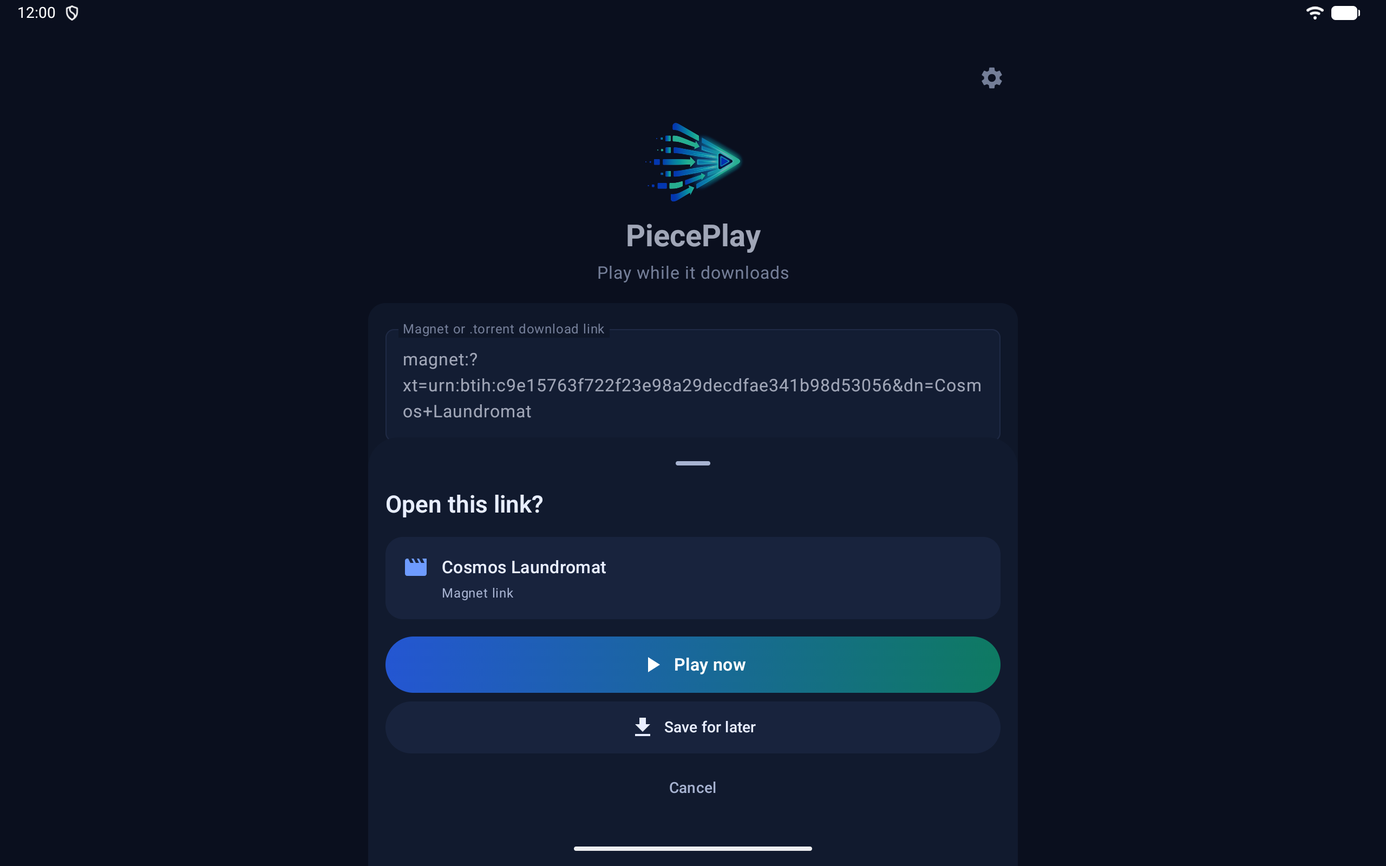
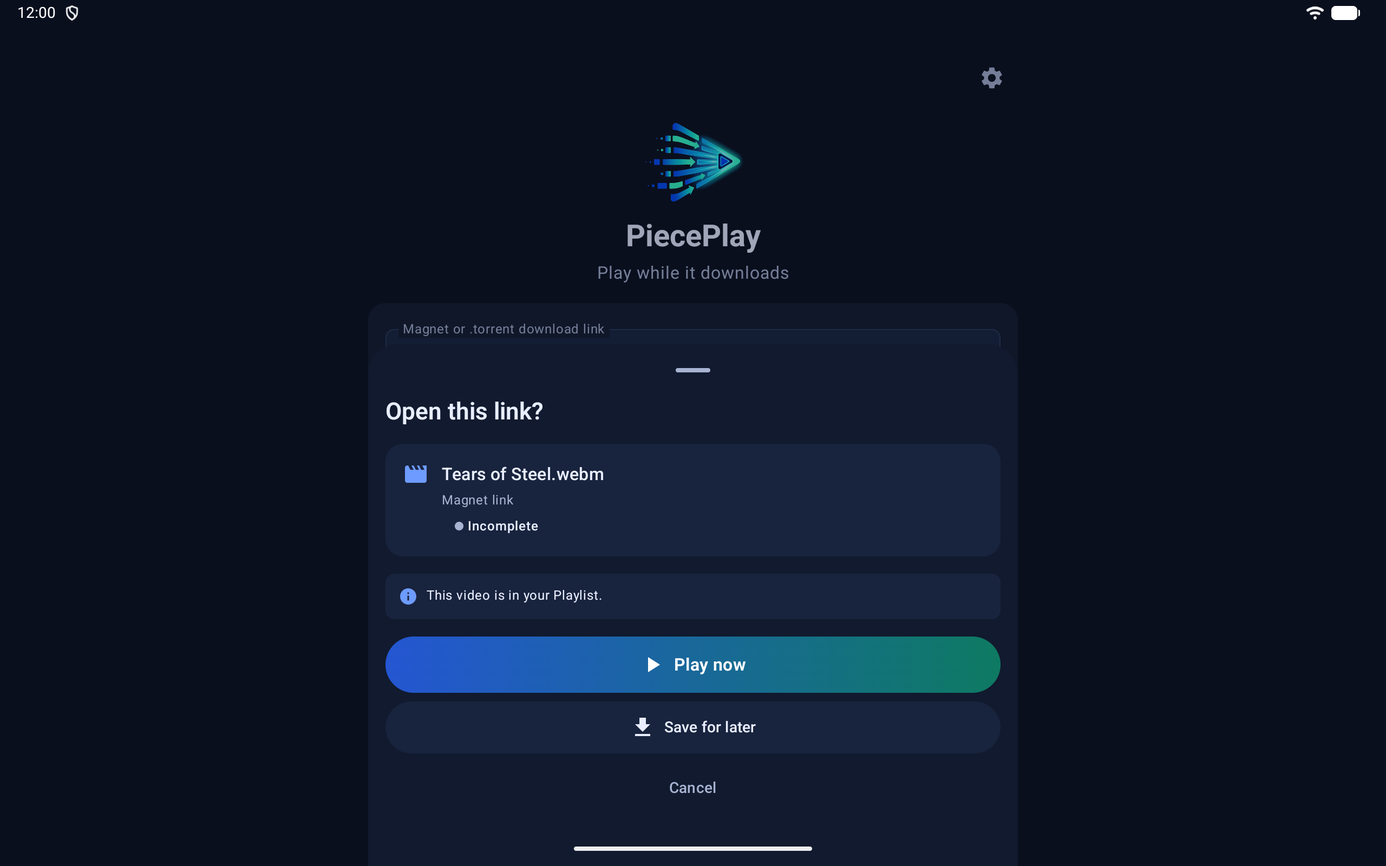
marketing: 한국어 스크린샷을 영어와 같은 7장으로 재촬영, 태블릿 링크 열기 마그넷 정리 (Refs #144)
- ko-KR 휴대전화·7인치·10인치 각 7장을 v.2026.11.14.001 한국어 UI로 새로 찍고(raw-ko-KR) 합성. 예전 6장 삭제
- 한국어 캡션을 영어 새 캡션과 뜻을 맞춰 바꿈("확대 · 축소" 삭제)
- en-US 태블릿 05_open_link: 마그넷을 Tears of Steel로 바꿔 출처 문장과 맞춤
- screens.py에 ko-KR 7장 구성과 raw-ko-KR 추가, README·등록정보 메모·검토 보고서 갱신

Changed region(s): [[0.2812, 0.4062, 0.7188, 0.5], [0.2812, 0.5312, 0.4375, 0.625], [0.2812, 0.625, 0.4375, 0.7188]]

diff --git a/launch/store-assets/tools/screens.py b/launch/store-assets/tools/screens.py
@@ -22,12 +22,16 @@ NOTO = 'C:/Windows/Fonts/NotoSansKR-VF.ttf'
 
 # (제목, 보조) — 언어별, 화면 키별 캡션
 CAPTIONS = {'ko-KR': {
-    'main': ('링크를 넣으면 바로 재생', '마그넷 링크나 토렌트 파일 주소만 붙여넣으세요'),
-    'preparing': ('앞부분부터 먼저 받아요', '다 받을 때까지 기다리지 않아도 돼요'),
-    'player_noads': ('재생 중에는 광고 없이', '받은 조각과 재생 위치를 한눈에'),
-    'player_seek': ('이동하면 그 위치부터 받아요', '10초 이동 · 확대 · 축소'),
+    # 영어(en-US) 7장과 같은 장면·뜻. 화면에 보이지 않는 기능(확대·축소)은 적지 않는다.
+    'player_noads': ('받으면서 바로 보기', '다 받을 때까지 기다리지 않고, 재생 중에는 광고 없이'),
+    'main': ('링크를 넣고 바로 재생', '마그넷 링크와 .torrent 파일 주소를 지원해요'),
+    'player_seek': ('원하는 곳으로 바로 이동', '이동한 위치부터 받아요 · 10초 이동'),
     'playlist': ('보던 곳부터 이어보기', '최근 50개를 기기 안에 암호화해 보관'),
-    'stored': ('업로드 없이, 기록은 기기 안에', '받은 파일은 형식별로 보고 바로 삭제'),
+    'open_link': ('다른 앱의 링크도 바로 열기', '바로 재생하거나 받아 두기'),
+    'subtitles': ('자막 골라 보기', '영상과 함께 받은 자막 파일을 선택'),
+    'stored': ('업로드 없이, 가입 없이', '받은 파일은 기기 안에만. 언제든 삭제'),
+    # 예전 6장 구성에서만 쓰던 키(TARGETS 기본값용)
+    'preparing': ('앞부분부터 먼저 받아요', '다 받을 때까지 기다리지 않아도 돼요'),
 }, 'en-US': {
     # 제목은 30자 이내 2~5단어. 근거: marketing/reports/store-screenshots-en-2026-11.md
     'player_noads': ('Watch while it downloads', 'No waiting for the whole file · no ads during playback'),
@@ -39,8 +43,8 @@ CAPTIONS = {'ko-KR': {
     'stored': ('No seeding, no account', 'Saved files stay on your device. Delete them anytime'),
 }}
 
-# 언어별 원본 폴더 이름(대상 폴더 아래). 없으면 raw. en-US 는 영어 UI 로 다시 찍은 원본을 쓴다(#144).
-RAW_DIRS = {'en-US': 'raw-en-US'}
+# 언어별 원본 폴더 이름(대상 폴더 아래). 없으면 raw. en-US·ko-KR 은 2026-11-14 빌드로 다시 찍은 원본을 쓴다(#144).
+RAW_DIRS = {'en-US': 'raw-en-US', 'ko-KR': 'raw-ko-KR'}
 
 
 def _en(player, seek, W, H, PW, PH):
@@ -55,8 +59,12 @@ def _en(player, seek, W, H, PW, PH):
 
 
 # 언어별 장면 순서(있으면 TARGETS 의 기본 6장 대신 쓴다): 대상 -> [(출력 파일, 원본 파일, 캡션 키, 캔버스 W, H)]
-# en-US 는 재생 장면을 첫 장으로 올리고 준비(preparing) 장면을 뺐다.
+# en-US·ko-KR 은 같은 7장: 재생 장면을 첫 장으로 올리고 준비(preparing) 장면을 뺐다.
 SCENES = {'en-US': {
+    'phone': _en(('01_player_landscape.png', 'player-landscape.png'), ('03_player.png', 'player.png'), 1080, 1920, 1920, 1080),
+    'tab7': _en(('01_player_landscape.png', 'player-landscape.png'), ('03_player.png', 'player.png'), 1080, 1920, 1920, 1080),
+    'tab10': _en(('01_player.png', 'player.png'), ('03_player_seek.png', 'player-seek.png'), 2560, 1440, 2560, 1440),
+}, 'ko-KR': {
     'phone': _en(('01_player_landscape.png', 'player-landscape.png'), ('03_player.png', 'player.png'), 1080, 1920, 1920, 1080),
     'tab7': _en(('01_player_landscape.png', 'player-landscape.png'), ('03_player.png', 'player.png'), 1080, 1920, 1920, 1080),
     'tab10': _en(('01_player.png', 'player.png'), ('03_player_seek.png', 'player-seek.png'), 2560, 1440, 2560, 1440),

diff --git a/launch/store-assets/README.md b/launch/store-assets/README.md
@@ -13,15 +13,15 @@ Play Console > 스토어 등록정보 > 기본 스토어 등록정보(또는 ko-
 | 앱 아이콘 | `1_Play_Store_Assets/app_icon_512x512.png` | 같은 파일 | 512x512 PNG | 512x512, 32비트 PNG, 1MB 이하, 필수. 지금 Console 아이콘과 같아 그대로 둔다 |
 | 그래픽 이미지 | `1_Play_Store_Assets/feature_graphic_1024x500_ko-KR.png` | `1_Play_Store_Assets/feature_graphic_1024x500_en-US.png` | 1024x500 PNG, 알파 없음 | 1024x500, JPEG 또는 24비트 PNG(알파 없음), 필수 |
 | 동영상 | `7_Promo_Video/PiecePlay_promo_ko-KR.mp4`를 YouTube에 올린 URL | `7_Promo_Video/PiecePlay_promo_en-US.mp4`를 올린 URL | 1920x1080, 30초 | YouTube 동영상 URL만, 공개 또는 일부공개, 광고 끔. 업로드 방법은 `7_Promo_Video/README.md` |
-| 휴대전화 스크린샷 | `4_Play_Store_Screenshots/ko-KR/01~06` | `4_Play_Store_Screenshots/en-US/01~07` | 1080x1920, 가로 재생만 1920x1080(ko `03`, en `01`) | 2~8장, 변 320~3840px, 긴 변 ≤ 짧은 변 x2, 추천 노출은 1080px 이상 4장 이상 |
-| 7인치 태블릿 | `5_Tablet_7in/ko-KR/01~06` | `5_Tablet_7in/en-US/01~07` | 1080x1920, 가로 재생만 1920x1080(ko `03`, en `01`) | 대화면: 변 1080~7680px, 9:16 또는 16:9, 4장 이상, 선택 |
-| 10인치 태블릿 | `6_Tablet_10in/ko-KR/01~06` | `6_Tablet_10in/en-US/01~07` | 2560x1440 | 위와 같음 |
+| 휴대전화 스크린샷 | `4_Play_Store_Screenshots/ko-KR/01~07` | `4_Play_Store_Screenshots/en-US/01~07` | 1080x1920, 가로 재생만 1920x1080(`01`) | 2~8장, 변 320~3840px, 긴 변 ≤ 짧은 변 x2, 추천 노출은 1080px 이상 4장 이상 |
+| 7인치 태블릿 | `5_Tablet_7in/ko-KR/01~07` | `5_Tablet_7in/en-US/01~07` | 1080x1920, 가로 재생만 1920x1080(`01`) | 대화면: 변 1080~7680px, 9:16 또는 16:9, 4장 이상, 선택 |
+| 10인치 태블릿 | `6_Tablet_10in/ko-KR/01~07` | `6_Tablet_10in/en-US/01~07` | 2560x1440 | 위와 같음 |
 | Chromebook | 비움 | 비움 | | 위와 같음, 선택 |
 
 - 현재 Console 기본 등록정보(en-US)에는 로고만 있는 옛 그래픽 이미지와 옛 이름 "Torrent Stream Player"의 휴대전화 스크린샷 2장이 있다. 둘 다 위 en-US 파일로 바꾼다(옛 스크린샷 2장은 삭제).
-- 영어(en-US) 스크린샷은 2026-11-14에 영어 UI로 다시 찍었다(#144, 아래 "영어 UI 재촬영"). 한국어(ko-KR) 스크린샷은 그대로다(예전 빌드 화면).
-- 영어는 7장이고 한국어와 순서가 다르다(2026-11-14 marketing 검토, `marketing/reports/store-screenshots-en-2026-11.md`). 재생 장면을 첫 장으로 올리고 준비(preparing) 장면을 뺐다. 원본 `raw-en-US/preparing.png`는 남겨 두었다.
-- **아직 올리지 않는다**: 영어 `02_main`, `05_open_link`(기기 3종, 6장)는 로고가 왼쪽으로 치우친 예전 빌드 화면이다. 로고 가운데 정렬(main af9e877) 빌드로 다시 찍은 뒤 올린다.
+- 영어(en-US)·한국어(ko-KR) 스크린샷은 2026-11-14에 다시 찍었다(#144, 아래 "영어 UI 재촬영", "2단계 재촬영").
+- 두 언어 모두 같은 순서·같은 장면의 7장이다(재생 가로 → 메인 → 이동 → 재생 목록 → 링크 열기 → 자막 → 저장 파일. 근거: `marketing/reports/store-screenshots-en-2026-11.md`). 재생 장면을 첫 장으로 올리고 준비(preparing) 장면을 뺐다. 예전 한국어 6장의 원본 `raw/`와 영어 `raw-en-US/preparing.png`는 남겨 두었다.
+- 메인 화면이 나오는 `02_main`, `05_open_link`는 로고 가운데 정렬(#187)이 들어간 v.2026.11.14.001 빌드로 다시 찍었다. 두 언어 모두 올려도 된다.
 
 규격 출처: [Play Console 고객센터 "미리보기 애셋 추가"](https://support.google.com/googleplay/android-developer/answer/9866151?hl=ko) (2026-11-12 확인). 그 밖의 요구: 실제 앱 화면을 보여 줄 것, "지금 다운로드" 같은 행동 유도 문구 금지, 문구가 이미지의 20%를 넘지 않을 것, 각 애셋에 140자 이하 대체 텍스트 권장.
 
@@ -30,16 +30,23 @@ Play Console > 스토어 등록정보 > 기본 스토어 등록정보(또는 ko-
 
 ## 캡션
 
-`marketing/aso/ko-KR.md` 6절 안을 따랐다. 보조 문구는 `marketing:content-creation`으로 쓰고 `marketing:brand-review`, `design:ux-copy`로 점검했다(금지 표현 없음, 앱에 없는 기능 없음).
+처음 한국어 캡션은 `marketing/aso/ko-KR.md` 6절 안이었고, 2026-11-14에 영어 7장과 같은 장면·뜻으로 바꿨다(아래 표). 보조 문구는 `marketing:content-creation`으로 쓰고 `marketing:brand-review`, `design:ux-copy`로 점검했다(금지 표현 없음, 앱에 없는 기능 없음).
 
-| 순서 | 화면 | 제목 | 보조 |
-|---|---|---|---|
-| 1 | 메인 | 링크를 넣으면 바로 재생 | 마그넷 링크나 토렌트 파일 주소만 붙여넣으세요 |
-| 2 | 준비 | 앞부분부터 먼저 받아요 | 다 받을 때까지 기다리지 않아도 돼요 |
-| 3 | 재생(가로) | 재생 중에는 광고 없이 | 받은 조각과 재생 위치를 한눈에 |
-| 4 | 재생(세로, 10인치는 이동 직후) | 이동하면 그 위치부터 받아요 | 10초 이동 · 확대 · 축소 |
-| 5 | 재생 목록 | 보던 곳부터 이어보기 | 최근 50개를 기기 안에 암호화해 보관 |
-| 6 | 저장 파일 관리 | 업로드 없이, 기록은 기기 안에 | 받은 파일은 형식별로 보고 바로 삭제 |
+한국어(ko-KR) 캡션. 영어 캡션과 같은 장면·같은 뜻으로 2026-11-14에 다시 정했다(앱 이름 `PiecePlay - 토렌트 플레이어`).
+
+| 순서 | 파일(휴대전화·7인치 / 10인치) | 화면 | 제목 | 보조 |
+|---|---|---|---|---|
+| 1 | `01_player_landscape` / `01_player` | 재생(가로) | 받으면서 바로 보기 | 다 받을 때까지 기다리지 않고, 재생 중에는 광고 없이 |
+| 2 | `02_main` | 메인 | 링크를 넣고 바로 재생 | 마그넷 링크와 .torrent 파일 주소를 지원해요 |
+| 3 | `03_player` / `03_player_seek` | 재생(세로, 10인치는 가로) 이동 직후 | 원하는 곳으로 바로 이동 | 이동한 위치부터 받아요 · 10초 이동 |
+| 4 | `04_playlist` | 재생 목록 | 보던 곳부터 이어보기 | 최근 50개를 기기 안에 암호화해 보관 |
+| 5 | `05_open_link` | 링크 확인 시트 | 다른 앱의 링크도 바로 열기 | 바로 재생하거나 받아 두기 |
+| 6 | `06_subtitles` | 자막 선택 | 자막 골라 보기 | 영상과 함께 받은 자막 파일을 선택 |
+| 7 | `07_stored_files` | 저장 파일 관리 | 업로드 없이, 가입 없이 | 받은 파일은 기기 안에만. 언제든 삭제 |
+
+- 예전 4번 보조 문구 "10초 이동 · 확대 · 축소"에서 "확대 · 축소"를 뺐다. 확대·축소는 재생 화면 더보기(⋮) 메뉴 안에 있어 스크린샷에 보이지 않는다.
+- 7번 "업로드 없이"는 다른 사용자에게 올려 보내지 않는다(시딩 없음)는 뜻이고, "가입 없이"는 영어 "no account"와 같은 사실이다. 한국어 사용자에게 "시딩"보다 "업로드"가 익숙해 이렇게 썼다.
+- 1번 "재생 중에는 광고 없이"는 예전 3번 제목을 옮긴 것이다. 광고 정책이 바뀌면 함께 고친다.
 
 영어(en-US) 캡션(앱 이름 "PiecePlay: Torrent Player"). 제목은 30자 이내 2~5단어로 맞췄다. 결정과 근거는 `marketing/reports/store-screenshots-en-2026-11.md`.
 
@@ -80,8 +87,21 @@ Play Console > 스토어 등록정보 > 기본 스토어 등록정보(또는 ko-
 - 테스트 광고 배너를 피하는 방법은 예전과 같다: 메인·재생 목록·저장 파일·링크 확인 시트는 와이파이·데이터를 끄고 앱을 새로 열어 찍었다. 재생·준비 화면에는 원래 광고가 없다.
 - 7인치(sw600dp)는 앱의 가로 전환 버튼이 아니라 기기 회전(`wm user-rotation lock 1`)으로 가로 재생을 찍었다.
 - 7인치 `preparing.png`는 데모 모드를 다시 걸기 전에 찍어 상태 표시줄에 와이파이 아이콘이 두 개였다. 상태 표시줄 오른쪽 아이콘 영역(240x48px)만 같은 빌드의 7인치 `main.png` 것으로 덮었다. 앱 화면 영역은 손대지 않았다.
-- 메인 화면의 로고·앱 이름·태그라인이 가운데가 아니라 왼쪽으로 치우쳐 있다. 지금 main 빌드의 실제 화면이다(`MainScreen.kt`에서 톱니 줄과 로고 묶음 Column에 가로 정렬이 없다, #128 이후). 앱은 main af9e877(#187)에서 고쳐졌다. 영어 `02_main`과 `05_open_link`(원본 `main.png`, `open-link.png`, 기기 3종)를 다시 찍어야 한다.
+- 이때 찍은 메인 화면은 로고가 왼쪽으로 치우친 예전 빌드였다. `main.png`, `open-link.png`(기기 3종)는 아래 "2단계 재촬영"에서 다시 찍었다.
 - 찍은 뒤 에뮬레이터는 되돌렸다(`wm size reset`, `wm density reset`, 회전 자동, 데모 모드 종료, 앱 제거).
+
+### 2단계 재촬영 (2026-11-14, #144, PR #181)
+
+| 폴더 | 기기 | 빌드 |
+|---|---|---|
+| `*/raw-en-US/main.png`, `open-link.png` (3종) | emulator-5554(AVD `Medium_Phone`). 7인치·10인치는 위와 같은 `wm size`·`wm density` | v.2026.11.14.001 디버그 (main d37e3f7: 로고 가운데 정렬 #187, 받는 순서 #184, 재생 수정 #189 포함) |
+| `*/raw-ko-KR/` (3종, 7장씩) | 같은 에뮬레이터, 앱별 언어 `cmd locale set-app-locales … ko-KR` | 같음 |
+
+- 영상: 한국어 가로 재생·이동은 Big Buck Bunny(휴대전화, 10인치 가로 재생)와 Tears of Steel(7인치, 10인치 이동), 자막은 Sintel, 재생 목록·저장 파일은 Big Buck Bunny·Sintel·Tears of Steel. 링크 확인 시트의 마그넷은 기기 3종 모두 Tears of Steel이다(예전 태블릿의 Cosmos Laundromat은 이름이 보이게 되어 등록정보 출처 문장과 맞추려고 바꿨다). 태블릿 시트는 이미 재생 목록에 있는 영상이라 "재생 목록에 있는 영상입니다" 줄이 함께 보인다(실제 동작).
+- 휴대전화·7인치는 가로 재생과 이동 장면이 같은 순간을 세로·가로로 찍은 것이다(받는 중에 이동한 구간이 조각 맵에 따로 보인다).
+- 테스트 광고 배너를 피하는 방법은 위와 같다(메인·재생 목록·저장 파일·링크 확인 시트는 와이파이·데이터를 끄고 앱을 새로 열어 찍음). 상태 표시줄은 데모 모드다.
+- 영어 휴대전화 `03_player`(어두운 장면)는 다시 찍지 못해 그대로다. 에뮬레이터 부하로 일시정지 프레임이 깨져 쓸 만한 장면을 얻지 못했다.
+- 찍은 뒤 에뮬레이터는 되돌렸다(`wm size reset`, `wm density reset`, 회전 자동, 앱별 언어 해제, 데모 모드 종료, `show_ime_with_hard_keyboard`=0, 앱 제거).
 
 ### 한국어 원본(예전)
 
@@ -102,5 +122,5 @@ Play Console > 스토어 등록정보 > 기본 스토어 등록정보(또는 ko-
 
 `tools/`의 스크립트(Python + Pillow, Windows의 Noto Sans KR 가변 글꼴 `NotoSansKR-VF.ttf`. 맑은 고딕은 작은 크기에서 "받"이 깨져 쓰지 않는다)로 만든다. Pillow가 없으면 `uv run --no-project --with pillow python ...`로 실행한다.
 
-- `screens.py <store-assets 폴더> <ko-KR|en-US|all> [phone|tab7|tab10]`: 각 `raw/` 원본(en-US는 `raw-en-US/`, 스크립트의 `RAW_DIRS`)으로 휴대전화·7인치·10인치 스크린샷을 만든다. 캡션과 파일 대응은 스크립트 위쪽 `CAPTIONS`, `TARGETS`(기본 6장), `SCENES`(언어별 장면 순서. en-US는 7장)에 있다. 원본은 비율을 유지한 채 틀 안에 맞춘다.
+- `screens.py <store-assets 폴더> <ko-KR|en-US|all> [phone|tab7|tab10]`: 언어별 원본(en-US는 `raw-en-US/`, ko-KR은 `raw-ko-KR/`, 스크립트의 `RAW_DIRS`)으로 휴대전화·7인치·10인치 스크린샷을 만든다. 캡션과 파일 대응은 스크립트 위쪽 `CAPTIONS`, `TARGETS`(기본 6장), `SCENES`(언어별 장면 순서. en-US·ko-KR 모두 7장)에 있다. 원본은 비율을 유지한 채 틀 안에 맞춘다.
 - `feature.py <적응형 아이콘 전경 png> <출력> [ko-KR|en-US]`: 그래픽 이미지(`2_Android_Adaptive_Icon/ic_launcher_foreground.png` 사용)

diff --git a/marketing/reports/store-screenshots-en-2026-11.md b/marketing/reports/store-screenshots-en-2026-11.md
@@ -48,21 +48,50 @@
 - 경쟁 앱이 쓰는 "Lightning fast", "No speed or size limits" 같은 표현은 근거 없는 최상급·"무제한" 금지 표현에 가까워 쓰지 않았다.
 - 한계: 상위 3개만 봤다. 앱별 전환율은 알 수 없다(미확인). 스토어 검색 결과에 스크린샷이 실제로 어떻게 잘려 보이는지는 기기에서 확인하지 않았다.
 
-## 재촬영이 필요한 장면 (2단계, 에뮬레이터가 비면)
+## 2단계 재촬영 결과 (2026-11-14)
 
-로고 가운데 정렬(main af9e877, #187)이 들어간 빌드로 찍는다.
+v.2026.11.14.001 디버그(main d37e3f7: 로고 가운데 정렬 #187, 받는 순서 #184, 재생 수정 #189)를 emulator-5554에 설치해 찍었다. 자세한 촬영 조건은 `launch/store-assets/README.md` "2단계 재촬영".
 
-| 구분 | 출력 파일 | 원본 파일 | 기기 | 이유 |
-|---|---|---|---|---|
-| 필수 | `02_main.png` | `main.png` | 휴대전화, 7인치, 10인치 | 로고·앱 이름·태그라인이 왼쪽으로 치우친 예전 빌드 화면 |
-| 필수 | `05_open_link.png` | `open-link.png` | 휴대전화, 7인치, 10인치 | 시트 뒤 메인 화면에 같은 문제 |
-| 권장 | `03_player.png` | `player.png` | 휴대전화만 | 영상 장면이 어둡고 화면 대부분이 검다. 7인치처럼 밝은 장면에서 다시 찍으면 좋다 |
-| 선택 | `07_stored_files.png` | `stored-files.png` | 3종 | 파일 2개뿐이라 아래가 비어 보인다. `All` 필터로 찍으면 목록이 찬다. 급하지 않다 |
+| 구분 | 출력 파일 | 기기 | 결과 |
+|---|---|---|---|
+| 필수 | `02_main.png` | 휴대전화, 7인치, 10인치 | 다시 찍음. 로고·앱 이름·태그라인이 가로 가운데 |
+| 필수 | `05_open_link.png` | 휴대전화, 7인치, 10인치 | 다시 찍음. 태블릿 시트의 마그넷을 Cosmos Laundromat → Tears of Steel로 바꿨다(이름이 화면에 보여 등록정보 출처 문장과 맞춤) |
+| 권장 | `03_player.png` | 휴대전화 | **못 함.** 밝은 장면(Big Buck Bunny)에서 시도했지만 에뮬레이터 부하(load 20~70)로 일시정지 프레임이 깨졌다. 지금 파일은 예전 어두운 장면 그대로 |
+| 선택 | `07_stored_files.png` | 3종 | 하지 않음(`.mp4` 필터 2개 그대로) |
 
-필수 6장을 다시 찍기 전에는 영어 스크린샷을 올리지 않는다.
+### 한국어(ko-KR)도 같은 7장으로
+
+영어와 같은 순서·같은 장면으로 한국어 스크린샷을 새로 찍고 합성했다(휴대전화·7인치·10인치 각 7장, 원본 `raw-ko-KR/`). 예전 6장(`01_main`~`06_stored_files`)은 지웠다. 원본 `raw/`는 남겨 두었다.
+
+| 순서 | 제목 before → after | 보조 before → after |
+|---|---|---|
+| 1 재생(가로) | 재생 중에는 광고 없이 → **받으면서 바로 보기** | 받은 조각과 재생 위치를 한눈에 → 다 받을 때까지 기다리지 않고, 재생 중에는 광고 없이 |
+| 2 메인 | 링크를 넣으면 바로 재생 → **링크를 넣고 바로 재생** | 마그넷 링크나 토렌트 파일 주소만 붙여넣으세요 → 마그넷 링크와 .torrent 파일 주소를 지원해요 |
+| 3 이동 | 이동하면 그 위치부터 받아요 → **원하는 곳으로 바로 이동** | 10초 이동 · 확대 · 축소 → 이동한 위치부터 받아요 · 10초 이동 |
+| 4 재생 목록 | 보던 곳부터 이어보기 (그대로) | 최근 50개를 기기 안에 암호화해 보관 (그대로) |
+| 5 링크 열기 | (새 장면) **다른 앱의 링크도 바로 열기** | 바로 재생하거나 받아 두기 |
+| 6 자막 | (새 장면) **자막 골라 보기** | 영상과 함께 받은 자막 파일을 선택 |
+| 7 저장 파일 | 업로드 없이, 기록은 기기 안에 → **업로드 없이, 가입 없이** | 받은 파일은 형식별로 보고 바로 삭제 → 받은 파일은 기기 안에만. 언제든 삭제 |
+| 뺌 | 준비: 앞부분부터 먼저 받아요 | |
+
+- "확대 · 축소"는 화면에 보이지 않아 뺐다(영어와 같은 이유).
+- "업로드 없이"는 "No seeding"의 뜻이다. 한국어 사용자에게 "시딩"보다 익숙한 말로 썼다. "가입 없이"는 "no account"와 같은 사실.
+- 금지 표현 없음, 최상급·수치 과장 없음, 앱에 없는 기능 없음.
+
+### 확인 결과 (모든 이미지를 직접 열어 봄)
+
+- 언어: 한국어판은 앱 화면도 한국어다. 파일 이름(Sintel.mp4 등)과 10인치 이동 장면의 영화 자막 한 줄("Nooooo!", Tears of Steel 영어 자막)은 콘텐츠라 영어로 남는다.
+- 잘림·겹침 없음. 테스트 광고 배너 없음(네트워크를 끄고 찍은 화면). 개인정보 없음(마그넷은 공개 오픈 무비 해시).
+- 로고·앱 이름: 메인·링크 열기 장면 모두 가로 가운데.
+- 휴대전화·7인치의 가로 재생과 이동 장면은 같은 순간을 세로·가로로 찍은 것이라 영상 프레임이 같다.
+
+### 촬영 중 발견한 앱 문제 (PM 전달)
+
+- **재생 중 네이티브 비정상 종료 1회**: Big Buck Bunny를 받으면서 재생하다가 가로 화면에서 일시정지 후 "10초 앞으로"를 누르자 앱이 SIGSEGV로 종료됐다(07:25, 디버그 v.2026.11.14.001, x86_64 에뮬레이터, 부하 높음). 스택은 `base.apk` 안 네이티브 라이브러리(기호 없음). 로그 발췌는 공유 노트 폴더 `marketing-crash-2026-11-14-0725.txt`. 재현은 시도하지 않았다.
+- 재생 목록에서 Tears of Steel 항목이 한동안 안 보였는데 링크를 다시 열면 "재생 목록에 있는 영상"으로 나왔다(목록 아래쪽에 있었을 가능성도 있어 확인 필요).
 
 ## 남은 일
 
+- 영어 휴대전화 `03_player`를 밝은 장면으로 다시 찍기(권장, 에뮬레이터가 한가할 때).
 - 홍보 영상(`7_Promo_Video/make_video.py`, 영상 README)의 영어 마무리 문구가 `PiecePlay - Torrent Player`(하이픈)다. 게시된 제목은 `PiecePlay: Torrent Player`(콜론)다. 영어 영상은 앱 화면이 한국어라 어차피 다시 만들어야 하므로 그때 함께 고친다.
-- 한국어(ko-KR) 스크린샷은 이번에 손대지 않았다(6장, 예전 순서). 같은 순서·원칙을 적용할지는 PM이 정한다. 한국어 캡션 4번에도 "확대 · 축소"가 있어 같은 문제가 있다.
 - 영어 등록정보를 올린 뒤 스토어 등록정보 실험으로 첫 장(재생 vs 메인)을 비교할 수 있다.

diff --git a/launch/listing/en-US.md b/launch/listing/en-US.md
@@ -10,7 +10,7 @@
 - 앱 화면이 이제 영어로 나오므로(기기 언어가 한국어가 아니면 영어) "한국어만 지원" 문장은 지웠다.
 - 저작권 안내 한 줄과 스크린샷 영상 출처(CC BY) 한 줄을 설명 끝에 둔다.
 - 피하는 표현(`marketing/CLAUDE.md`): 영화·드라마 제목, 토렌트 사이트 이름, "free movies", "latest releases", "unlimited downloads". 아래 문안에 없다(2026-11-13 점검). Sintel·Big Buck Bunny·Tears of Steel은 스크린샷 출처 표기라 해당하지 않는다.
-- 스크린샷: `launch/store-assets/*/en-US`는 2026-11-14에 **영어 UI**(v.2026.11.13.001 디버그, main 667c06e)로 다시 찍었다. 같은 날 marketing이 전환율 관점으로 순서·캡션을 고쳐 휴대전화·7인치·10인치 각 7장으로 다시 합성했다(재생 → 메인 → 이동 → 재생 목록 → 링크 열기 → 자막 → 저장 파일, 준비 장면은 뺐다. 근거: `marketing/reports/store-screenshots-en-2026-11.md`). 메인 화면이 나오는 `02_main`, `05_open_link`는 로고 가운데 정렬(main af9e877) 빌드로 다시 찍어야 한다. 화면에 나오는 영상은 Sintel, Big Buck Bunny, Tears of Steel이라 아래 출처 문장과 맞는다. 태블릿 링크 확인 시트의 마그넷(해시만 보임)은 Cosmos Laundromat(같은 Blender Foundation, CC BY)이다.
+- 스크린샷: `launch/store-assets/*/en-US`는 2026-11-14에 **영어 UI**(v.2026.11.13.001 디버그, main 667c06e)로 다시 찍었다. 같은 날 marketing이 전환율 관점으로 순서·캡션을 고쳐 휴대전화·7인치·10인치 각 7장으로 다시 합성했다(재생 → 메인 → 이동 → 재생 목록 → 링크 열기 → 자막 → 저장 파일, 준비 장면은 뺐다. 근거: `marketing/reports/store-screenshots-en-2026-11.md`). 메인 화면이 나오는 `02_main`, `05_open_link`(기기 3종)는 2026-11-14에 로고 가운데 정렬(#187)이 들어간 v.2026.11.14.001 빌드로 다시 찍었다. 화면에 나오는 영상은 Sintel, Big Buck Bunny, Tears of Steel이라 아래 출처 문장과 맞는다(링크 확인 시트의 마그넷도 기기 3종 모두 Tears of Steel).
 - 홍보 영상 `7_Promo_Video/PiecePlay_promo_en-US.mp4`는 자막만 영어이고 영상 속 앱 화면은 **한국어 UI**(v.2026.11.12.003)다(3·9·25초 프레임 확인). 영어 등록정보의 동영상 칸에 넣으려면 다시 만들어야 한다.
 
 ## 앱 이름 (30자 이내)

diff --git a/launch/listing/ko-KR.md b/launch/listing/ko-KR.md
@@ -4,6 +4,8 @@
 
 피하는 표현: 영화·드라마 제목, 토렌트 사이트 이름, "무료 영화", "최신 개봉작", "무제한 다운로드".
 
+스크린샷: `launch/store-assets/*/ko-KR`는 2026-11-14에 v.2026.11.14.001 빌드(한국어 UI)로 다시 찍어 영어와 같은 7장 구성으로 바꿨다(재생 가로 → 메인 → 이동 → 재생 목록 → 링크 열기 → 자막 → 저장 파일, 준비 장면은 뺐다). 캡션은 `launch/store-assets/README.md` "캡션" 표, 근거는 `marketing/reports/store-screenshots-en-2026-11.md`. 화면 속 영상은 Sintel, Big Buck Bunny, Tears of Steel이라 아래 출처 문장과 맞는다. 예전 4번 캡션의 "확대 · 축소"는 화면에 보이지 않아 뺐다.
+
 ## 앱 이름 (30자 이내)
 
 ```
